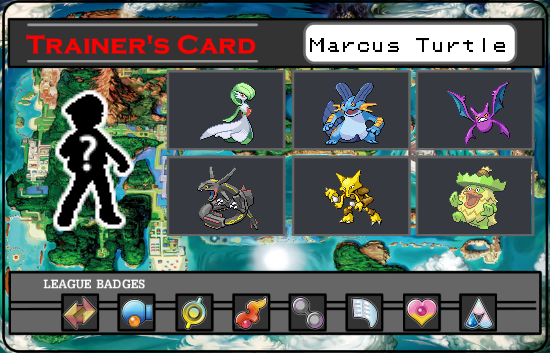
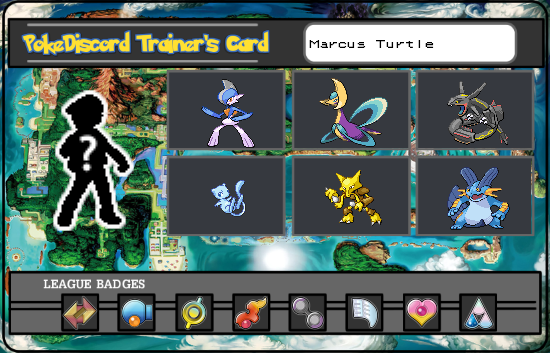
command changes

diff --git a/main.py b/main.py
@@ -63,45 +63,86 @@ async def startGame(ctx):
                 await ctx.send("An error occurred, please restart your session. If this persists, please report to an admin.")
         await endSession(ctx)
 
-@bot.command(name='grantFlag', help='DEV ONLY: grants user flag, usage: "!grantFlag [flag, with _] [user]')
-async def grantFlag(ctx, flag, *, userName: str="self"):
+@bot.command(name='grantFlag', help='DEV ONLY: grants user flag (use "_" for spaces in flag name), usage: "!grantFlag [flag, with _] [user] [server id = None]')
+async def grantFlag(ctx, flag, userName: str="self", server_id=None):
+    if not server_id:
+        server_id = ctx.message.guild.id
+    else:
+        try:
+            server_id = int(server_id)
+        except:
+            server_id = ctx.message.guild.id
+    fetched_user = await fetchUserFromServer(ctx, userName)
     flag = flag.replace("_", " ")
     if str(ctx.author) != 'Zetaroid#1391':
         await ctx.send(str(ctx.message.author.display_name) + ' does not have developer rights to use this command.')
         return
     if userName == 'self':
-        user, isNewUser = data.getUserByAuthor(ctx.message.guild.id, ctx.author)
+        user, isNewUser = data.getUserByAuthor(server_id, ctx.author)
     else:
-        user, isNewUser = data.getUserByAuthor(ctx.message.guild.id, userName)
+        user, isNewUser = data.getUserByAuthor(server_id, userName, fetched_user)
     if not isNewUser:
         user.addFlag(flag)
-        await ctx.send(user.name + ' has been granted the flag: ' + flag + '.')
+        await ctx.send(user.name + ' has been granted the flag: "' + flag + '".')
     else:
         await ctx.send("User '" + userName + "' not found, cannot grant flag.")
 
-@bot.command(name='removeFlag', help='DEV ONLY: grants user flag, usage: "!removeFlag [flag, with _] [user]')
-async def removeFlag(ctx, flag, *, userName: str="self"):
+@bot.command(name='viewFlags', help='DEV ONLY: views user flags (use "_" for spaces in flag name), usage: "!viewFlags [flag, with _] [user] [server id = None]')
+async def viewFlags(ctx, userName: str="self", server_id=None):
+    if not server_id:
+        server_id = ctx.message.guild.id
+    else:
+        try:
+            server_id = int(server_id)
+        except:
+            server_id = ctx.message.guild.id
+    fetched_user = await fetchUserFromServer(ctx, userName)
+    if str(ctx.author) != 'Zetaroid#1391':
+        await ctx.send(str(ctx.message.author.display_name) + ' does not have developer rights to use this command.')
+        return
+    if userName == 'self':
+        user, isNewUser = data.getUserByAuthor(server_id, ctx.author)
+    else:
+        user, isNewUser = data.getUserByAuthor(server_id, userName, fetched_user)
+    if not isNewUser:
+        await ctx.send(user.name + ' flags:\n' + str(user.flags))
+    else:
+        await ctx.send("User '" + userName + "' not found, cannot revoke flag.")
+
+@bot.command(name='removeFlag', help='DEV ONLY: grants user flag (use "_" for spaces in flag name), usage: "!removeFlag [flag, with _] [user] [server id = None]')
+async def removeFlag(ctx, flag, userName: str="self", server_id=None):
+    if not server_id:
+        server_id = ctx.message.guild.id
+    else:
+        try:
+            server_id = int(server_id)
+        except:
+            server_id = ctx.message.guild.id
+    fetched_user = await fetchUserFromServer(ctx, userName)
     flag = flag.replace("_", " ")
     if str(ctx.author) != 'Zetaroid#1391':
         await ctx.send(str(ctx.message.author.display_name) + ' does not have developer rights to use this command.')
         return
     if userName == 'self':
-        user, isNewUser = data.getUserByAuthor(ctx.message.guild.id, ctx.author)
+        user, isNewUser = data.getUserByAuthor(server_id, ctx.author)
     else:
-        user, isNewUser = data.getUserByAuthor(ctx.message.guild.id, userName)
+        user, isNewUser = data.getUserByAuthor(server_id, userName, fetched_user)
     if not isNewUser:
-        user.removeFlag(flag)
-        await ctx.send(user.name + ' has been revoked the flag: ' + flag + '.')
+        if user.removeFlag(flag):
+            await ctx.send(user.name + ' has been revoked the flag: "' + flag + '".')
+        else:
+            await ctx.send(user.name + ' did not have the flag: "' + flag + '". Nothing to revoke.')
     else:
         await ctx.send("User '" + userName + "' not found, cannot revoke flag.")
 
 @bot.command(name='forceEndSession', help='ADMIN ONLY: forcibly removes user from active sessions list, usage: !forceEndSession [user]')
 async def forceEndSession(ctx, *, userName: str="self"):
+    fetched_user = await fetchUserFromServer(ctx, userName)
     if ctx.message.author.guild_permissions.administrator:
         if userName == 'self':
             user, isNewUser = data.getUserByAuthor(ctx.message.guild.id, ctx.author)
         else:
-            user, isNewUser = data.getUserByAuthor(ctx.message.guild.id, userName)
+            user, isNewUser = data.getUserByAuthor(ctx.message.guild.id, userName, fetched_user)
         if not isNewUser:
             success = data.removeUserSession(ctx.message.guild.id, user)
             if success:
@@ -115,12 +156,13 @@ async def forceEndSession(ctx, *, userName: str="self"):
 
 @bot.command(name='grantStamina', help='ADMIN ONLY: grants user stamina in amount specified, usage: !grantStamina [amount] [user]')
 async def grantStamina(ctx, amount, *, userName: str="self"):
+    fetched_user = await fetchUserFromServer(ctx, userName)
     amount = int(amount)
     if ctx.message.author.guild_permissions.administrator:
         if userName == 'self':
             user, isNewUser = data.getUserByAuthor(ctx.message.guild.id, ctx.author)
         else:
-            user, isNewUser = data.getUserByAuthor(ctx.message.guild.id, userName)
+            user, isNewUser = data.getUserByAuthor(ctx.message.guild.id, userName, fetched_user)
         if not isNewUser:
             user.dailyProgress += amount
             await ctx.send(user.name + ' has been granted ' + str(amount) + ' stamina.')
@@ -131,13 +173,14 @@ async def grantStamina(ctx, amount, *, userName: str="self"):
 
 @bot.command(name='grantItem', help='ADMIN ONLY: grants user item (use "_" for spaces in item name) in amount specified, usage: !grantItem [item] [amount] [user]')
 async def grantItem(ctx, item, amount, *, userName: str="self"):
+    fetched_user = await fetchUserFromServer(ctx, userName)
     item = item.replace('_', " ")
     amount = int(amount)
     if ctx.message.author.guild_permissions.administrator:
         if userName == 'self':
             user, isNewUser = data.getUserByAuthor(ctx.message.guild.id, ctx.author)
         else:
-            user, isNewUser = data.getUserByAuthor(ctx.message.guild.id, userName)
+            user, isNewUser = data.getUserByAuthor(ctx.message.guild.id, userName, fetched_user)
         if not isNewUser:
             user.addItem(item, amount)
             await ctx.send(user.name + ' has been granted ' + str(amount) + ' of ' + item + '.')
@@ -148,13 +191,14 @@ async def grantItem(ctx, item, amount, *, userName: str="self"):
 
 @bot.command(name='removeItem', help='ADMIN ONLY: removes user item (use "_" for spaces in item name) in amount specified, usage: !removeItem [item] [amount] [user]')
 async def removeItem(ctx, item, amount, *, userName: str="self"):
+    fetched_user = await fetchUserFromServer(ctx, userName)
     item = item.replace('_', " ")
     amount = int(amount)
     if ctx.message.author.guild_permissions.administrator:
         if userName == 'self':
             user, isNewUser = data.getUserByAuthor(ctx.message.guild.id, ctx.author)
         else:
-            user, isNewUser = data.getUserByAuthor(ctx.message.guild.id, userName)
+            user, isNewUser = data.getUserByAuthor(ctx.message.guild.id, userName, fetched_user)
         if not isNewUser:
             user.useItem(item, amount)
             await ctx.send(user.name + ' has been revoked ' + str(amount) + ' of ' + item + '.')
@@ -182,9 +226,10 @@ async def enableStamina(ctx):
 @bot.command(name='setLocation', help='ADMIN ONLY: sets a players location, usage: !setLocation [user#1234] [location]')
 async def setLocation(ctx, userName, *, location):
     if ctx.message.author.guild_permissions.administrator:
+        fetched_user = await fetchUserFromServer(ctx, userName)
         if userName == "self":
             userName = str(ctx.message.author)
-        user, isNewUser = data.getUserByAuthor(ctx.message.guild.id, userName)
+        user, isNewUser = data.getUserByAuthor(ctx.message.guild.id, userName, fetched_user)
         if not isNewUser:
             if location in user.locationProgressDict.keys():
                 user.location = location
@@ -432,7 +477,8 @@ async def battleTrainer(ctx, *, trainerName: str="self"):
             if trainerName == 'self':
                 await ctx.send("Must input a user to battle.")
             else:
-                userToBattle, isNewUser = data.getUserByAuthor(ctx.message.guild.id, trainerName)
+                fetched_user = await fetchUserFromServer(ctx, trainerName)
+                userToBattle, isNewUser = data.getUserByAuthor(ctx.message.guild.id, trainerName, fetched_user)
                 if not isNewUser:
                     if user.author != userToBattle.author:
                         userToBattle = copy(userToBattle)
@@ -511,10 +557,11 @@ async def fly(ctx, *, location: str=""):
 
 @bot.command(name='profile', help="get a Trainer's profile, use: '!profile [trainer name]'", aliases=['p'])
 async def profile(ctx, *, userName: str="self"):
+    fetched_user = await fetchUserFromServer(ctx, userName)
     if userName == 'self':
         user, isNewUser = data.getUserByAuthor(ctx.message.guild.id, ctx.author)
     else:
-        user, isNewUser = data.getUserByAuthor(ctx.message.guild.id, userName)
+        user, isNewUser = data.getUserByAuthor(ctx.message.guild.id, userName, fetched_user)
     if not isNewUser:
         embed = createProfileEmbed(ctx, user)
         await ctx.send(embed=embed)
@@ -522,11 +569,12 @@ async def profile(ctx, *, userName: str="self"):
         await ctx.send("User '" + userName + "' not found.")
 
 @bot.command(name='trainerCard', help="get a Trainer's card, use: '!trainerCard [trainer name]'", aliases=['tc'])
-async def profile(ctx, *, userName: str="self"):
+async def trainerCard(ctx, *, userName: str="self"):
+    fetched_user = await fetchUserFromServer(ctx, userName)
     if userName == 'self':
         user, isNewUser = data.getUserByAuthor(ctx.message.guild.id, ctx.author)
     else:
-        user, isNewUser = data.getUserByAuthor(ctx.message.guild.id, userName)
+        user, isNewUser = data.getUserByAuthor(ctx.message.guild.id, userName, fetched_user)
     if not isNewUser:
         createTrainerCard(user)
         await ctx.send(file=discord.File('data/temp/trainerCardNew.png'))
@@ -547,7 +595,8 @@ async def showMap(ctx):
 @bot.command(name='trade', help="trade with another user, use: '!trade [your party number to trade] [trainer name to trade with]'", aliases=['t'])
 async def trade(ctx, partyNum, *, userName):
     partyNum = int(partyNum)
-    userToTradeWith, isNewUser1 = data.getUserByAuthor(ctx.message.guild.id, userName)
+    fetched_user = await fetchUserFromServer(ctx, userName)
+    userToTradeWith, isNewUser1 = data.getUserByAuthor(ctx.message.guild.id, userName, fetched_user)
     userTrading, isNewUser2 = data.getUserByAuthor(ctx.message.guild.id, ctx.author)
     if isNewUser1:
         await ctx.send("User '" + userName + "' not found.")
@@ -769,7 +818,7 @@ async def testWorldCommand(ctx):
     location = "Rustboro Gym Lv100"
     progress = 0
     pokemonPairDict = {
-        "Swampert": 100,
+        "Kirlia": 100,
         "Rayquaza": 100
     }
     movesPokemon1 = [
@@ -2135,7 +2184,7 @@ def createTrainerCard(trainer):
         background.paste(badgeImage2, (112, 288), badgeImage2.convert('RGBA'))
     if numberOfBadges >= 1:
         background.paste(badgeImage1, (55, 288), badgeImage1.convert('RGBA'))
-    fnt = ImageFont.truetype('data/fonts/pokemonGB.ttf', 15)
+    fnt = ImageFont.truetype('data/fonts/pokemonGB.ttf', 10)
     d = ImageDraw.Draw(background)
     d.text((310, 40), trainer.name, font=fnt, fill=(0, 0, 0))
     background.save("data/temp/trainerCardNew.png", "PNG")
@@ -3929,6 +3978,14 @@ async def returnToOverworldFromSuperTraining(ctx, trainer, message=None):
         except:
             pass
     await startOverworldUI(ctx, trainer)
+
+async def fetchUserFromServer(ctx, userName):
+    try:
+        id = int(userName.replace("<", "").replace("@", "").replace(">", "").replace("!", ""))
+        fetched_user = await ctx.guild.fetch_member(id)
+        return fetched_user
+    except:
+        return None
 
 async def saveLoop():
     global allowSave

diff --git a/Data.py b/Data.py
@@ -398,7 +398,7 @@ class pokeData(object):
         if user.name != ctx.message.author.display_name:
             user.name = ctx.message.author.display_name
 
-    def getUserByAuthor(self, server_id, author): # user, isNewUser
+    def getUserByAuthor(self, server_id, author, fetched_user=None): # user, isNewUser
         server_id = str(server_id)
         if server_id in self.userDict.keys():
             for user in self.userDict[server_id]:
@@ -406,6 +406,10 @@ class pokeData(object):
                     return user, False
                 if (str(user.name).lower() == str(author).lower()):
                     return user, False
+                if fetched_user:
+                    if fetched_user.display_name.lower() == str(user.author).lower()\
+                            or fetched_user.display_name.lower() == str(user.name).lower():
+                        return user, False
         return None, True
 
     def addUser(self, server_id, user):
@@ -434,9 +438,10 @@ class pokeData(object):
 
     def removeUserSession(self, server_id, user):
         server_id = str(server_id)
-        if (user in self.sessionDict[server_id]):
-            self.sessionDict[server_id].remove(user)
-            return True
+        if server_id in self.sessionDict.keys():
+            if (user in self.sessionDict[server_id]):
+                self.sessionDict[server_id].remove(user)
+                return True
         return False
 
     def getSessionList(self, ctx):

diff --git a/Trainer.py b/Trainer.py
@@ -108,6 +108,8 @@ class Trainer(object):
     def removeFlag(self, flag):
         if flag in self.flags:
             self.flags.remove(flag)
+            return True
+        return False
 
     def checkProgress(self, location):
         progress = 0
